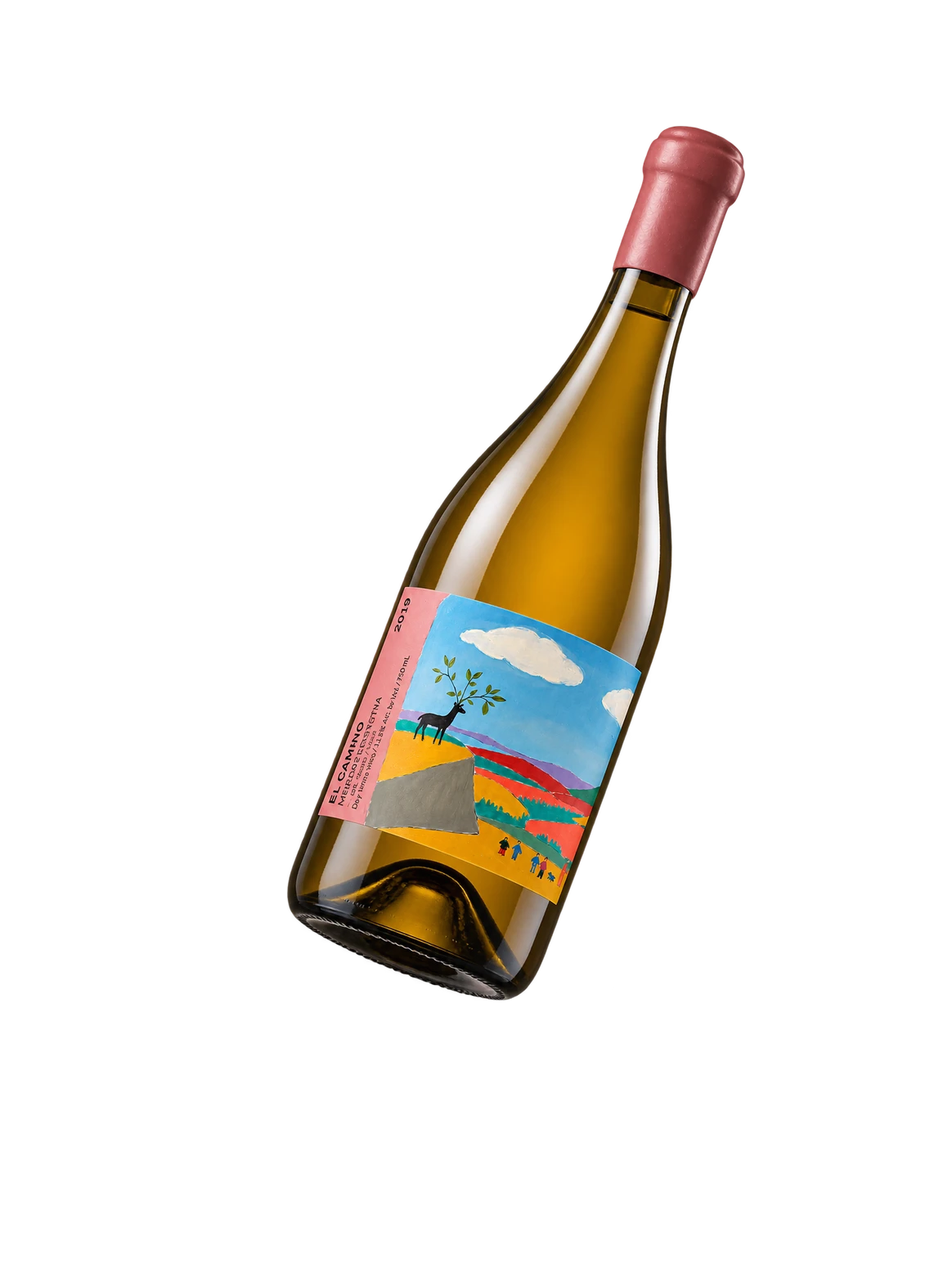
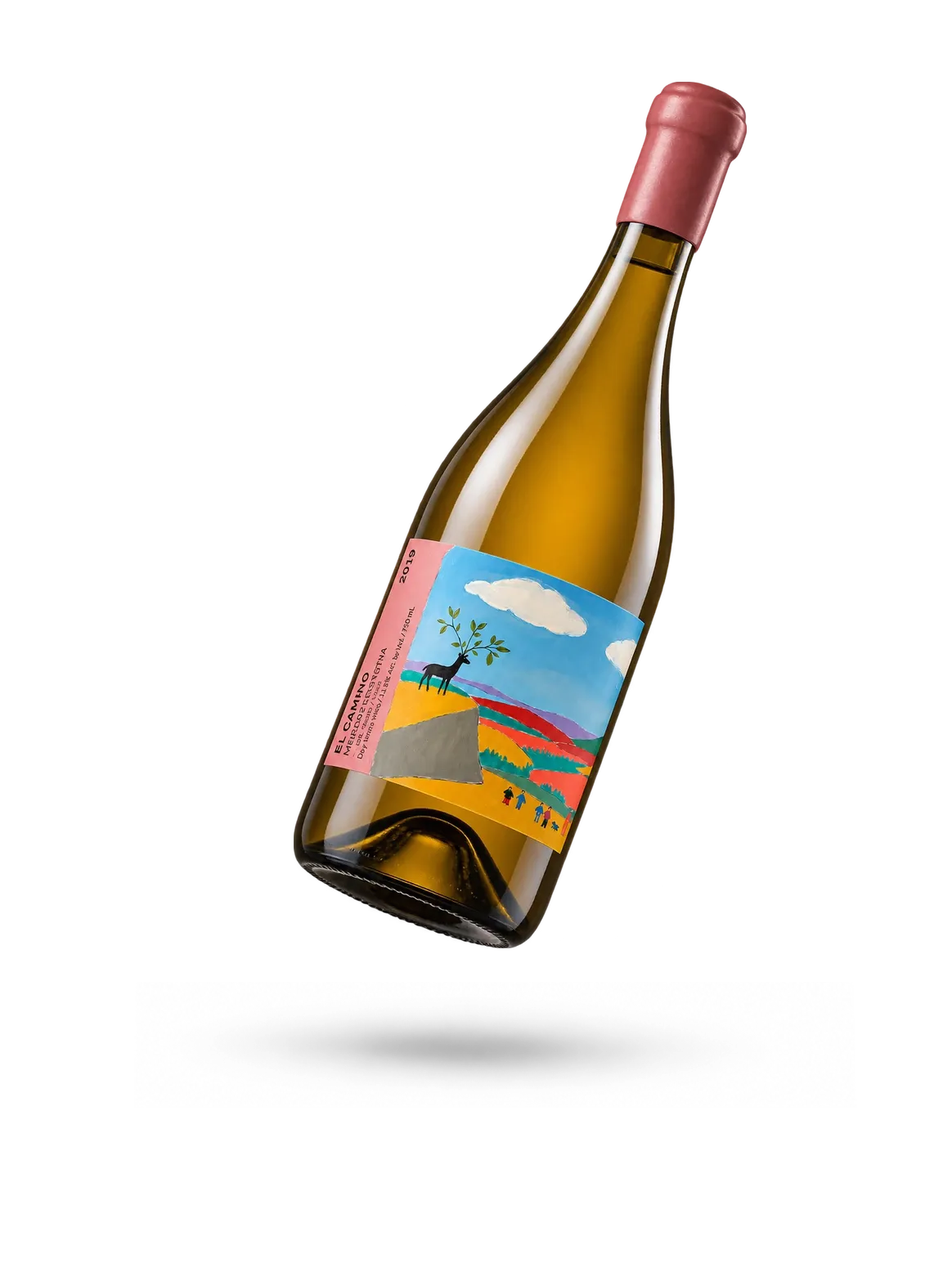
Covers: original shadow under the new bottles, blurred back bottles, Luce di Sera slid over the corner, all covers before repeats, descriptions true to colour; Inspired by everywhere instead of authorship wording

Changed region(s): [[0.2784, 0.0617, 0.8041, 0.8638]]

diff --git a/src/app/page.tsx b/src/app/page.tsx
@@ -878,12 +878,16 @@ const sleep = (ms: number) => new Promise((r) => setTimeout(r, ms));
      a different one on each load. Picked in the browser before the first
      paint (the server draws the first), never the last one shown. */
   const [cover, setCover] = useState<CoverProject | null>(null);
+  /* 2026-09-30 (owner): every cover is shown once before any comes round
+     again — the round's shown ones are kept (nui-cover-seen); a new round
+     never opens on the one just shown */
   useLayoutEffect(() => {
-    let last = "";
-    try { last = localStorage.getItem("nui-cover") || ""; } catch { }
-    const pool = COVERS.filter((c) => c.slug !== last);
+    let last = "", seen: string[] = [];
+    try { last = localStorage.getItem("nui-cover") || ""; seen = JSON.parse(localStorage.getItem("nui-cover-seen") || "[]"); } catch { }
+    let pool = COVERS.filter((c) => !seen.includes(c.slug));
+    if (!pool.length) { seen = []; pool = COVERS.filter((c) => c.slug !== last); }
     const pick = pool[Math.floor(Math.random() * pool.length)] || COVERS[0];
-    try { localStorage.setItem("nui-cover", pick.slug); } catch { }
+    try { localStorage.setItem("nui-cover", pick.slug); localStorage.setItem("nui-cover-seen", JSON.stringify([...seen, pick.slug])); } catch { }
     setCover(pick);
   }, []);
   const CP = cover || COVERS[0];
@@ -3229,7 +3233,7 @@ const sleep = (ms: number) => new Promise((r) => setTimeout(r, ms));
           ))}
           {cap && (
             <span key={"gcap" + cap.src} style={{ ...px(L, baseTop(TOP + SIZE + 22, 13), R - L, 16), font: `13px ${HNW}`, lineHeight: "13px", color: "#111", textAlign: "center", display: "block", whiteSpace: "nowrap", animation: `nuiFadeIn 400ms ${EASE} both` }}>
-              {cap.artist ? (<>{t("Style By:")} <b>{nameOf(cap.artist)}</b> · </>) : null}{cap.wine}
+              {cap.artist ? (<>{t("Inspired by:")} <b>{nameOf(cap.artist)}</b> · </>) : null}{cap.wine}
               <span style={{ color: "#8a887e" }}>{`   ${cur + 1} / ${n}`}</span>
             </span>
           )}
@@ -3361,7 +3365,8 @@ const sleep = (ms: number) => new Promise((r) => setTimeout(r, ms));
       case "artist": {
         const a2 = siteArtists.find((x) => x.id === artistId) || siteArtists[0];
         if (!a2) return null;
-        const first = a2.name.split(" ")[0];
+        /* in Georgian the name is written in Georgian (2026-09-30) */
+        const first = (lang === "ge" ? ARTIST_GE[a2.name] || a2.name : a2.name).split(" ")[0];
         const BX = 137.14, BW = 342.86;
         const WK = 205.71, WGAP = 274.29, WX = 548.57, WY = 171.37;
         return (<>
@@ -3388,19 +3393,19 @@ const sleep = (ms: number) => new Promise((r) => setTimeout(r, ms));
           })()}
           <button onClick={() => { setPickArtists(a2.ids || [a2.id]); go("vision"); }}
             style={{ ...px(136.96, 548.57, 343.21, 34.29), cursor: "pointer", font: `12px ${HNW}`, letterSpacing: 0.3, background: "#111", color: "#fff", border: "none", display: "flex", alignItems: "center", justifyContent: "center", paddingBottom: 4, textTransform: "none" }}>
-            {t("Create label with")} {first}{t("’s art")}</button>
+            {t("Create a label inspired by")} {first}</button>
           {/* ROUND 113 #6 (owner): the two captions are HYPERLINKS —
               underlined, as the owner drew them (his .st5 carries
               text-decoration: underline). "Original art" shows her own
               paintings; "Labels from …" shows the labels already painted
               in her hand. The set being shown is black, the other grey. */}
-          {([["Original art", "art"], ["Labels from", "labels"]] as const).map(([cap, view], i) => {
+          {([["Original art", "art"], ["Labels inspired by", "labels"]] as const).map(([cap, view], i) => {
             const set = view === "art" ? a2.works : a2.labels;
             const on = artistView === view;
             return (
               <button key={view} onClick={() => set.length && setArtistView(view)}
                 style={{ ...px(BX, baseTop(i ? 651.35 : 628.19, 17), 300, 20), ...ghost, font: `700 17px ${HNW}`, lineHeight: "17px", color: on && set.length ? INK : "#b3b3b3", whiteSpace: "nowrap", textAlign: "left", textDecoration: "underline", textUnderlineOffset: 3, cursor: set.length ? "pointer" : "default", textTransform: "none" }}>
-                {view === "art" ? t(cap) : `${t(cap)} ${first}`}</button>
+                {view === "art" || lang === "ge" ? t(cap) : `${t(cap)} ${first}`}</button>
             );
           })}
           {/* ROUND 113 #5 (owner): BOTH marks stand on every artist's page,
@@ -3494,7 +3499,7 @@ const sleep = (ms: number) => new Promise((r) => setTimeout(r, ms));
             /* the picked names in full when they fit the box, else by first
                name ("Mariam, Levan, Dachi") — never cut with an ellipsis */
             const fullNames = chosen.map((a) => a.name).join(", ");
-            const names = textW(t("Style by artist:") + " ", `700 14px ${HNW}`) + textW(fullNames, `14px ${HNW}`) <= SB.w - 12 - 40
+            const names = textW(t("Inspired by:") + " ", `700 14px ${HNW}`) + textW(fullNames, `14px ${HNW}`) <= SB.w - 12 - 40
               ? fullNames : chosen.map((a) => a.name.split(" ")[0]).join(", ");
             const ink = styleOpen ? "#fff" : "#111";
             const AW = 15.4, AH = 7.7;
@@ -3514,7 +3519,7 @@ const sleep = (ms: number) => new Promise((r) => setTimeout(r, ms));
                   /* the line box is 24 tall (not 14): the ellipsis clips at it, and
                      a 14-tall box cut the Georgian letters' tails ("სტილი") */
                   <span style={{ position: "absolute", left: 12, top: base - 12 - 0.5255 * 14, height: 24, width: SB.w - 12 - 40, textAlign: "left", font: `14px/24px ${HNW}`, color: ink, whiteSpace: "nowrap", overflow: "hidden", textOverflow: "ellipsis" }}>
-                    <b style={{ fontWeight: 700 }}>{t("Style by artist:")}</b>{" "}{chosen.length ? names : t("3 randomly chosen artists")}
+                    <b style={{ fontWeight: 700 }}>{t("Inspired by:")}</b>{" "}{chosen.length ? names : t("3 randomly chosen artists")}
                   </span>
                 )}
                 <svg viewBox="0 0 22 11" width={AW} height={AH} style={{ position: "absolute", right: 11, top: (SB.h - AH) / 2 }}>
@@ -3703,10 +3708,10 @@ const sleep = (ms: number) => new Promise((r) => setTimeout(r, ms));
                 return a2 ? (
                   <button onClick={() => { artistsFrom.current = "options"; setArtistId(a2.id); setArtistView("art"); go("artist"); }}
                     style={{ ...ghost, pointerEvents: "auto", cursor: "pointer", font: `700 ${BAR_FS}px/${BAR_FS}px ${HNW}`, color: INK, whiteSpace: "nowrap", textTransform: "none" }}>
-                    {t("Style By:")} <span style={{ textDecoration: "underline", textUnderlineOffset: 2 }}>{who}</span></button>
+                    {t("Inspired by:")} <span style={{ textDecoration: "underline", textUnderlineOffset: 2 }}>{who}</span></button>
                 ) : (
                   <span style={{ font: `700 ${BAR_FS}px/${BAR_FS}px ${HNW}`, whiteSpace: "nowrap" }}>
-                    {who ? `${t("Style By:")} ${who}` : ""}</span>
+                    {who ? `${t("Inspired by:")} ${who}` : ""}</span>
                 );
               })()}
             </div>
@@ -5938,7 +5943,7 @@ const sleep = (ms: number) => new Promise((r) => setTimeout(r, ms));
                 /* 2026-09-26 (owner): no idea and no sketch → an abstraction
                    in the artist's own hand — the popup says so */
                 left.push(<span key="pt">{colTitle(32, t("Prompt:"))}</span>);
-                left.push(<span key="pv" style={{ position: "absolute", left: 32, top: baseTop(y + 43, 15), width: 329, font: `italic 15px/18px ${HNW}` }}>{t("An abstraction in the artist's own style")}</span>);
+                left.push(<span key="pv" style={{ position: "absolute", left: 32, top: baseTop(y + 43, 15), width: 329, font: `italic 15px/18px ${HNW}` }}>{t("An abstraction inspired by the artist's style")}</span>);
                 leftBottom = y + 60;
               }
               if (sketch) {

diff --git a/src/app/guide.ts b/src/app/guide.ts
@@ -66,16 +66,16 @@ const PRESS_SELECT = { en: "“Select”", ge: "„აირჩიე“" };
 export const GUIDE: GuideStep[] = [
   /* ── the taste page (2026-09-28) ── */
   { page: "taste", at: { x: 420, y: 132, w: 600, h: 22 }, side: "right",
-    en: "Pick the three horses you like most — don't overthink it. The artists who painted them will paint your labels.",
-    ge: "აირჩიე სამი ცხენი, რომელიც ყველაზე მეტად მოგწონს — ბევრს ნუ იფიქრებ. ვინც ისინი დახატა, ის არტისტები დახატავენ შენს ეტიკეტებს.", done: "taste", press: { en: "“Select”", ge: "„აირჩიე“" } },
+    en: "Pick the three horses you like most — don't overthink it. Your labels will be inspired by the artists behind them.",
+    ge: "აირჩიე სამი ცხენი, რომელიც ყველაზე მეტად მოგწონს — ბევრს ნუ იფიქრებ. შენი ეტიკეტები მათ უკან მდგომი არტისტების ინსპირაციით დაიხატება.", done: "taste", press: { en: "“Select”", ge: "„აირჩიე“" } },
   { page: "taste", at: RED, side: "above",
     en: "Press the red button to go on.",
     ge: "გასაგრძელებლად დააჭირე წითელ ღილაკს.", done: "page:vision", press: PRESS_RED },
   /* ── front label details ── */
   { page: "vision", at: { x: 136, y: 342, w: 551, h: 207 }, side: "below",
     /* 2026-09-26 (owner): an empty box is a choice too — an abstraction */
-    en: "If you know what you want painted on your label, describe it in simple words. Or press “Give me an idea” — and if you leave the box empty, the artist paints an abstraction in their own style.",
-    ge: "თუ იცი რა გინდა ეხატოს ეტიკეტზე, აღწერე მარტივი სიტყვებით. ან დააჭირე „მომეცი იდეა“-ს და თუ ველს ცარიელს დატოვებ, არტისტი თავის სტილში აბსტრაქციას დახატავს." },
+    en: "If you know what you want painted on your label, describe it in simple words. Or press “Give me an idea” — and if you leave the box empty, we paint an abstraction inspired by the artist's style.",
+    ge: "თუ იცი რა გინდა ეხატოს ეტიკეტზე, აღწერე მარტივი სიტყვებით. ან დააჭირე „მომეცი იდეა“-ს და თუ ველს ცარიელს დატოვებ, არტისტის სტილის ინსპირაციით აბსტრაქციას დავხატავთ." },
   { page: "vision", at: { x: 137, y: 275, w: 241, h: 34 }, side: "above",
     en: "Optional: upload a sketch or a photo to show what you mean.",
     ge: "სურვილისამებრ: ატვირთე ესკიზი ან ფოტო, რომ აჩვენო რა გინდა." },
@@ -96,12 +96,12 @@ export const GUIDE: GuideStep[] = [
   /* 2026-09-30: the painting happens ON the labels page now — each column
      its own glass; the note waits there until the three have landed */
   { page: "options", at: { x: 137, y: 290, w: 1166, h: 250 }, side: "above",
-    en: "Three artists are painting right now — each label appears as soon as it's ready.",
-    ge: "სამი არტისტი ახლა ხატავს — ყოველი ეტიკეტი გამოჩნდება, როგორც კი მზად იქნება.", done: "painted", wait: true },
+    en: "Your three labels are being painted right now, each inspired by a different artist — each appears as soon as it's ready.",
+    ge: "შენი სამი ეტიკეტი ახლა იხატება, თითო სხვადასხვა არტისტის ინსპირაციით — ყოველი გამოჩნდება, როგორც კი მზად იქნება.", done: "painted", wait: true },
   /* ── front label ── */
   { page: "options", at: { x: 137, y: 200, w: 1166, h: 340 }, side: "above",
-    en: "Three designs, each in a different artist's style. Click a label to see it big, and if you like one, select it.",
-    ge: "სამი დიზაინი, თითო სხვადასხვა არტისტის სტილში. დააჭირე ეტიკეტს, რომ დიდად ნახო და თუ რომელიმე მოგეწონა, აირჩიე." },
+    en: "Three designs, each inspired by a different artist. Click a label to see it big, and if you like one, select it.",
+    ge: "სამი დიზაინი, თითო სხვადასხვა არტისტის ინსპირაციით. დააჭირე ეტიკეტს, რომ დიდად ნახო და თუ რომელიმე მოგეწონა, აირჩიე." },
   /* the Select row sits halfway between a 110×80 label's foot (539.4) and
      NEW TRY (647.39) — 593.4 (2026-09-28) */
   { page: "options", at: { x: 137, y: 593.4 - 17, w: 1166, h: 34 }, side: "below",

diff --git a/src/app/cover-projects.ts b/src/app/cover-projects.ts
@@ -32,7 +32,9 @@ export const COVERS: CoverProject[] = [
     visionGe: "რბილი გრავიტაცია — ადამიანის ფიგურა მიწიდან სულ რამდენიმე სანტიმეტრზე ლივლივებს, სრულიად მოდუნებული და ამას ვერც ამჩნევს. თმა და ტანსაცმელი ბუნებრივად ეშვება და ჩნდება მსუბუქი შეგრძნება, რომ გრავიტაცია შერბილდა.",
     front: { producer: "MARANI", wine: "TSINANDALI", appellation: "Mukuzani", classification: "", vintage: "2023", grape: "Rkatsiteli", regionCountry: "Kakheti Georgia", special: "Qvevri Wine", sweetness: "Dry", colour: "Amber", wineType: "Wine", alcohol: "12", volume: "750" },
     back: { producerCompany: "POPIKA LLC", producerAddress: "#33 Chikovani St. 0171 Tbilisi, Georgia", importer: "", importerAddress: "", bottlingDate: "22/04/23", lot: "L9876545321", web: "www.popikasmarani.com" },
-    desc: "A vibrant, medium-bodied wine with aromas of ripe cherry, wild berries, and subtle spice. Fresh acidity and soft tannins create a balanced palate, followed by notes of dried herbs and a smooth, lingering finish.",
+    /* 2026-09-30 (owner: "no description may contradict the wine's colour"):
+       an AMBER wine — its old text described a red */
+    desc: "Deep amber from months on the skins in qvevri. Dried apricot, quince and walnut on the nose, a firm grip of tannin and a long, gently spiced finish.",
     labels: [T + "ts-label1.jpg", T + "ts-label2.jpg", T + "ts-label3.jpg"], artists: ["Mariam Kvashilava", "Levan Amashukeli", "Levan Amashukeli"], chosen: 1,
     backLabel: T + "ts-back-label.png", shotFront: T + "ts-shot-front.png", shotBack: T + "ts-shot-back.png", life: [1, 2, 3, 4, 5].map((n) => T + "ts-life" + n + ".jpg"), landing: T + "ts-landing.jpg", qr: "https://8klabels.com/p/wqo2bp5f",
     bottle: { type: "Burgundy", color: "Olive Green", closure: "Wax Seal", finish: "Matte" }, cap: [14, 175, 255],
@@ -85,7 +87,8 @@ export const COVERS: CoverProject[] = [
     visionGe: "კატა ძველ თბილისში ეზოს დაჰყურებს, ზემოდან, თითქმის „თევზის თვალით“. კატა კამერასთან ახლოსაა, თითქოს ორივენი ერთად ვიყურებით ეზოში ძველი თბილისური აივნებით, ეზოს გადაღმა თოკებზე სარეცხი კიდია, ბავშვები თამაშობენ.",
     front: {"producer": "Giorgi's Marani", "wine": "Mzeo", "appellation": "", "classification": "", "vintage": "2020", "grape": "Saperavi", "regionCountry": "Kakheti, Georgia", "special": "Qvevri Aged 6 Months", "sweetness": "Dry", "colour": "Rosé", "wineType": "Wine", "alcohol": "13", "volume": "750"},
     back: {"producerCompany": "\"Giorgi's Marani\" LLC", "producerAddress": "#5 Rustaveli st. 2400 Kvareli, Georgia", "importer": "", "importerAddress": "", "bottlingDate": "27/11/2021", "lot": "", "web": ""},
-    desc: "A deep, medium-bodied red with aromas of black cherry, plum and a touch of spice. Firm tannins and a long, savoury finish.",
+    /* a ROSÉ — the pack's back label had described a red (owner, 2026-09-30) */
+    desc: "Pale salmon pink with aromas of wild strawberry, red currant and rose petal. Fresh and dry, with a crisp, mineral finish.",
     labels: ["/newui/covers/mzeo/l1.jpg", "/newui/covers/mzeo/l2.jpg", "/newui/covers/mzeo/l3.jpg"], artists: ["Gvantsa Mzareulishvili", "Gvantsa Mzareulishvili", "Gvantsa Mzareulishvili"], chosen: 2,
     backLabel: "/newui/covers/mzeo/back-label.png", shotFront: "/newui/covers/mzeo/shot-front.png", shotBack: "/newui/covers/mzeo/shot-back.png", life: [1, 2, 3, 4, 5].map((n) => "/newui/covers/mzeo/life" + n + ".jpg"), landing: "/newui/covers/mzeo/landing.jpg", qr: "https://8klabels.com/p/mzeocov01",
     bottle: {"type": "Burgundy", "color": "Transparent", "closure": "Wax Seal", "finish": "Matte"}, cap: [183, 175, 231],

diff --git a/src/app/newui-i18n.ts b/src/app/newui-i18n.ts
@@ -44,6 +44,11 @@ export const SVG_GE: Record<string, string> = {
   "marketing assets, and a product page": "სამარკეტინგო მასალა და პროდუქტის ვებ-გვერდი",
   "in ~10 minutes.": "~10 წუთში.",
   "Style By:": "სტილი:",
+  /* 2026-09-30 (owner): never say a label is an artist's work — "Inspired by" everywhere */
+  "Inspired by:": "ინსპირაცია:",
+  "Create a label inspired by": "შექმენი ეტიკეტი — ინსპირაცია:",
+  "Labels inspired by": "ეტიკეტები მისი ინსპირაციით",
+  "An abstraction inspired by the artist's style": "აბსტრაქცია არტისტის სტილის ინსპირაციით",
   "FRONT LABEL": "ᲬᲘᲜᲐ ᲔᲢᲘᲙᲔᲢᲘ",
   "Producer:": "მწარმოებელი:",
   "Wine Name:": "ღვინის სახელი:",
@@ -343,7 +348,7 @@ export const UI_GE: Record<string, string> = {
   "Today's free tries are all used — come back tomorrow, or buy tries.": "დღევანდელი უფასო ცდები ამოიწურა — ხვალ დაბრუნდით, ან შეიძინეთ ცდები.",
   "3 new versions": "3 ახალი ვერსია",
   "9 new versions": "9 ახალი ვერსია",
-  "Each set of three is painted by artists and in layouts you haven't seen yet.": "ყოველ სამეულს ხატავენ არტისტები იმ განლაგებებით, რომლებიც ჯერ არ გინახავს.",
+  "Each set of three is inspired by artists and set in layouts you haven't seen yet.": "ყოველი სამეული სხვადასხვა არტისტის ინსპირაციითაა დახატული, განლაგებებით, რომლებიც ჯერ არ გინახავთ.",
   "Payments aren't connected yet — coming soon.": "გადახდა ჯერ არ არის ჩართული — მალე.",
   "Leave your e-mail and we'll send you a link. Open it and you'll come back to this page — your labels waiting — to make three new versions, free.": "დაგვიტოვე ელფოსტა და ბმულს გამოგიგზავნით. გახსნი და ამ გვერდზე დაბრუნდები, შენს ეტიკეტებთან, სადაც სამ ახალ ვერსიას უფასოდ შექმნი.",
   "We've sent a link to": "ბმული გავაგზავნეთ მისამართზე",

diff --git a/CONTINUE-HERE.md b/CONTINUE-HERE.md
@@ -330,6 +330,7 @@ the server's data/layout-edits — pull them before reading.
 - "LABELS FROM <ARTIST>" = MARKETING IMAGES (owner, 2026-09-30): src/lib/label/showcase.ts — data/artists/<id>/showcase/<time>-<code>-<n>.jpg, served by /api/artists/showcase?f=<id>/<file> (runtime files, not public/); the artists API lists six: the newest pack's first image, the next pack's first, … then second images (variety first); prepared public labelN.jpg only fill what is still empty (Mariam's old ones deleted; Keta's stay — no page). AUTOMATIC: api/product POST (the wizard publishes when marketing finishes) saves the pack's lifestyle images to the label's artist's showcase — ONLY when the publisher is admin (requestIsAuthenticated), so customers' images never reach an artist page; a re-publish of the same order replaces its images. Initial fill from the Downloads packs + live packs + New/Add: Levan 6 labels, Dachi 3, Giorgi A. 2, Mariam 2, Rati 2, Gvantsa 1 (5 images). Pirosmani, Kakabadze, Otskheli, Oskar: none yet. data/artists/<id>/showcase must be rsynced like the rest of data/artists (never --delete from local).
 - HOME COVERS (owner, 2026-09-30: "make several covers like the Levan one from projects with a full pack, a new one on every load, and See how this pack was created shows the project loaded"): src/app/cover-projects.ts `COVERS` — TSINANDALI + El Camino (Rati, label 2026-09-30-fa8ce44b2f95, page eivxk22w), Les Pierres (Giorgi A., 499d957e1627, 9l95mslj), Luce di Sera (Levan, 2026-09-23-2917e5135492 LOCAL, rtjuyy26), Mzeo (Gvantsa, 2026-09-30-f6ec71a74a74, page mzeocov01 — published by Claude as admin from the Mzeo 3 pack), Piedra Alta (Dachi, 2026-09-27-f7b35b54a633 LOCAL, s9zs09j1). Each: idea (EN from the label's prompt + my GE translation), front/back details + description (product docs; Mzeo from its label + back PDF), the run's 3 labels (found by creation time; style order traditional/contemporary/funky) + which was chosen, back label (live /api/back-label, US market, the label's ground), bottle as the owner said (all Burgundy + wax except Luce di Sera Bordeaux + screw cap, Les Pierres cork; glass: Mzeo clear, Luce olive, others amber), capsule colour measured off the pack's front shot → wheel rim pick + shade (capFromRgb), shots, 5 marketing images, product page screenshot (preview key) + QR. Cover: label, his two chosen market images (New/<Wine>_ImageNN), two FLOATING BOTTLES painted with gpt-image (the pack's shot + the old cover's bottle as pose reference, transparent) fitted into the old bottles' boxes, arrow colour from the label. Assets public/newui/covers/<slug>/. page.tsx: `cover` state picked in useLayoutEffect (random, never the last one shown — localStorage nui-cover); `CP` replaces every DEMO_*/TUT_* constant (removed); the walkthrough's Select taps the project's chosen column (±411.4) and the bottle step opens on different values in each row and taps the project's own. To add a project: same recipe (a full pack + its live labels).
 - NEW ARTIST: GRIGOL TATISHVILI (owner, 2026-09-30) — the 1899 Deda Ena engravings (Oskar Schmerling's drawings cut in wood by Grigol Tatishvili), from ARTISTS/Deda Ena (45 screenshots; the book's portrait of Tsar Nicholas II LEFT OUT — a political portrait must never be learned). 44 works, cleaned (captions/signatures on 22, 36, 37, 38, 40), LoRA GRTAT, bio EN/GE per his story (Deda Ena = Gogebashvili's primer every Georgian learns the language from), consent: public domain, page 12, horseOrder 12 (horse v1; v2 in ~/Desktop/8K-horses/grigol-tatishvili), no portrait (work1 = the lion). ALWAYS LIGHT (his rule): new profile field `paper` ("white or light warm cream paper") — hybrid.ts asks every picture for it (never a dark/coloured field, whatever the story), names it round floating drawings/panels and in the retry, and skips the ground-variety rotation. Test (night scene): ground #fafafa, moon drawn, sky paper.
+- (owner, 2026-09-30, five) (1) cover bottles: the ORIGINAL front bottle's soft shadow (everything below its base in home/bottle-front.webp) now lies under every new front bottle; the new bottles are fitted to the original's BOTTLE box (alpha > 200, no longer the shadow too); the back bottles are blurred like the original (sigma 4.6 on the 2× canvas). (2) Luce di Sera's slimmer Bordeaux slid right 58 px so it covers the first market picture's bottom-left corner as far as the original bottle reaches (the rule: reach the original's own reach at that row; the Burgundies moved 0–3 px). (3) STANDING RULE: never say a label is an artist's work — "Inspired by: X" / "ინსპირაცია: X" everywhere: labels page heads, gallery caption, details Style menu ("Inspired by:"), artist page button ("Create a label inspired by Mariam" / „შექმენი ეტიკეტი — ინსპირაცია: მარიამ"), its toggle ("Labels inspired by Mariam" / „ეტიკეტები მისი ინსპირაციით"), the guide notes (horses, empty idea, painting, three designs) and the abstraction line; the Georgian name on the artist page now in Georgian. "Original art" stays (it IS their work). (4) Covers: every one is shown once before any comes round again (localStorage nui-cover-seen; a new round never opens on the last shown). (5) Descriptions match colour: TSINANDALI (amber) and Mzeo (rosé) rewritten — in COVERS, their back-label pictures (regenerated through live /api/back-label, same colours/QR/barcode) and their product pages (wqo2bp5f, mzeocov01 description updated in the DB, landing screenshots redone).
 
 **2026-09-29 — RATI BAKRADZE added** (living artist, consent VERBAL per the owner's standing word; written agreement before selling): 46 screenshots → dropped a duplicate (#28/#32) and two with painted words ("KIDS", "we are friends"); cleaned (Instagram UI, signatures); 2 still lettered set aside → 41 works, LoRA RTBKR. No public bio found (web search empty) — a DRAFT bio from the works only, marked as draft, EN/GE. No portrait yet (first work stands in). Page 9 (Schmerling 10), horse option 2 (black horse), horseOrder 10. Tests in ~/Desktop/8K-sheet-test/new-artists.
 

diff --git a/CLAUDE.md b/CLAUDE.md
@@ -72,6 +72,11 @@ John/Doe), MongoDB Atlas db `8k-labels`.
 - Layout hints have ONE source: buildLayoutHints() (layout-refs.ts) — never
   derive layout hints from image profiles or send thinner hints anywhere.
 - Alcohol/volume always "N% Alc. by Vol. / N mL".
+- NEVER say a label (or any picture we make) is an artist's work, painted or
+  created by them — everywhere "Inspired by: <artist>" / "ინსპირაცია: <artist>"
+  (owner, 2026-09-30).
+- A demo/cover project's description must match its wine colour (owner,
+  2026-09-30: a rosé described as red is an obvious slip).
 - UI: Special Elite only (self-hosted), WHITE ground + grey accents
   (#E3E3E1 tabs; beige era ended 2026-08-16), all-black 2px lines.
 - Cover images: black & white (grayscale filter), never cropped — the hero
